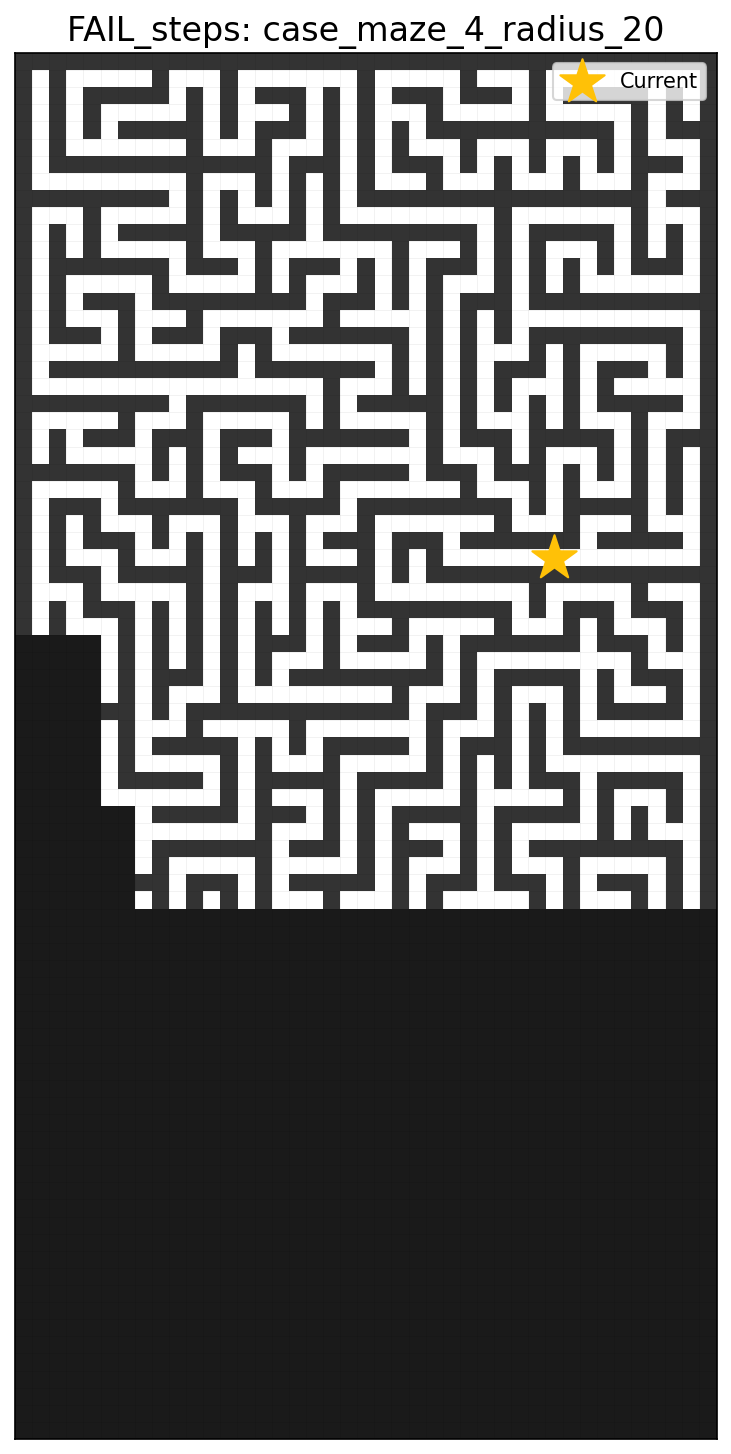
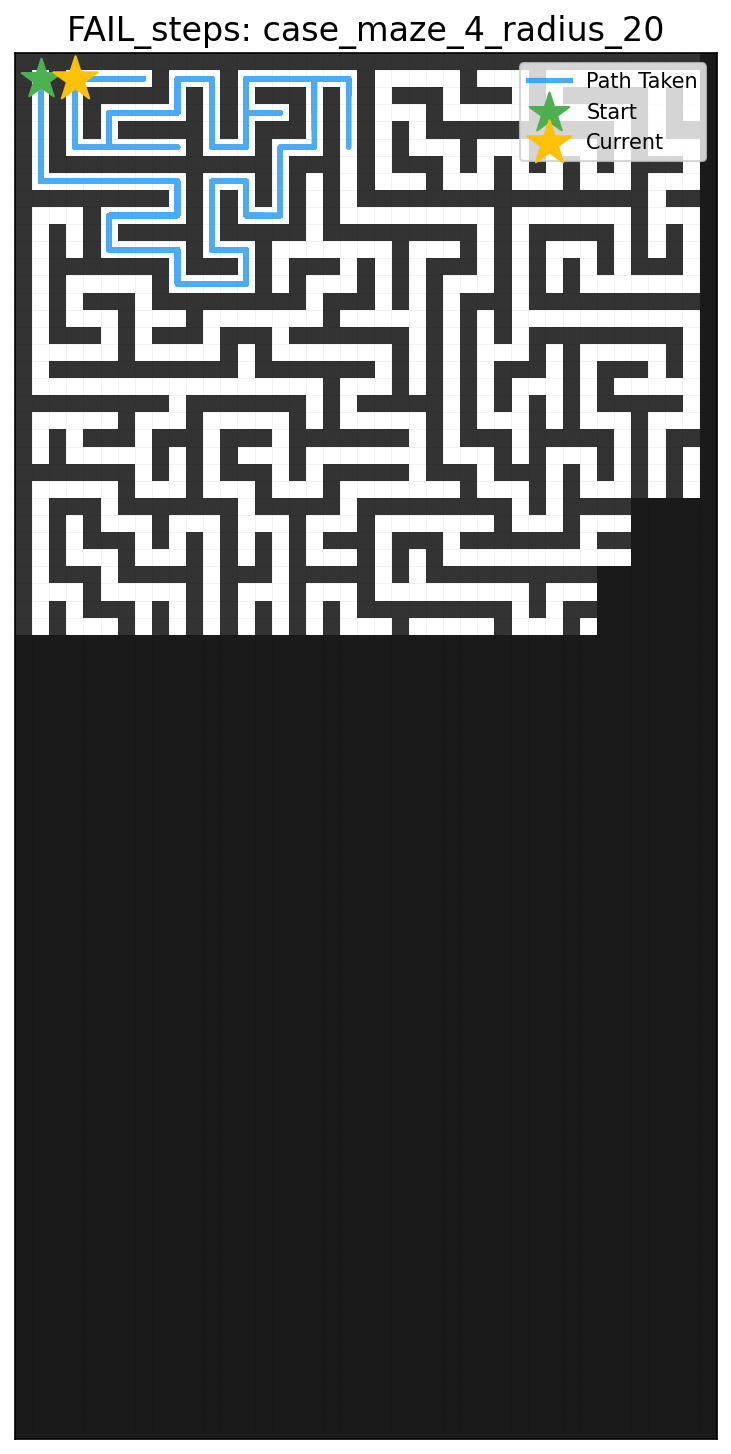
好像好一点的优化

Changed region(s): [[0.1204, 0.0309, 0.9932, 0.6499], [0.0301, 0.0309, 0.4815, 0.2166], [0.7223, 0.3714, 0.7825, 0.4023]]

diff --git a/candidate_planner.py b/candidate_planner.py
@@ -1,115 +1,99 @@
 import numpy as np
 import random
-import heapq
 from collections import deque
 
 class Planner:
     def __init__(self, map_shape: tuple[int, int], view_radius: int):
-        self.known_map = np.full(map_shape, -1, dtype=int)  # -1代表未知区域，0代表空地，1代表障碍物
+        self.known_map = np.full(map_shape, -1, dtype=int)  # -1:未知, 0:空地, 1:障碍
         self.view_radius = view_radius
         self.path_taken = []
         self.map_shape = map_shape
+        self.frontier = set()  # 维护边界点集合（空间换时间）
         
     def update_knowledge(self, current_pos: tuple[int, int], local_view: np.ndarray):
         r = self.view_radius
-        x, y = current_pos
-        h, w = self.known_map.shape
+        cx, cy = current_pos
+        h, w = self.map_shape
         
-        y_start, y_end = max(0, y - r), min(h, y + r + 1)
-        x_start, x_end = max(0, x - r), min(w, x + r + 1)
+        # 计算局部视图在全局地图中的边界
+        y_start, y_end = max(0, cy - r), min(h, cy + r + 1)
+        x_start, x_end = max(0, cx - r), min(w, cx + r + 1)
         
+        # 更新全局地图
         self.known_map[y_start:y_end, x_start:x_end] = local_view
+        
+        # 更新边界点：只更新受影响的区域（高效的关键）
+        updated_region = [
+            max(0, y_start-1), min(h, y_end+1),
+            max(0, x_start-1), min(w, x_end+1)
+        ]
+        
+        # 清除原有边界点（仅更新区域内的）
+        for point in list(self.frontier):
+            x, y = point
+            if updated_region[0] <= y < updated_region[1] and \
+               updated_region[2] <= x < updated_region[3]:
+                self.frontier.discard(point)
+        
+        # 添加新边界点（仅更新区域内）
+        for y in range(updated_region[0], updated_region[1]):
+            for x in range(updated_region[2], updated_region[3]):
+                if self.known_map[y, x] != 0:
+                    continue  # 只考虑自由区域
+                
+                # 检查四个方向是否有未知区域
+                for dx, dy in [(0, 1), (0, -1), (1, 0), (-1, 0)]:
+                    nx, ny = x + dx, y + dy
+                    if (0 <= ny < h and 0 <= nx < w and 
+                        self.known_map[ny, nx] == -1):
+                        self.frontier.add((x, y))
+                        break
 
-    def find_boundary_points(self, current_pos: tuple[int, int]):
-        """寻找边界点，即未知区域的边界"""
-        boundary_points = []
-        x, y = current_pos
-        for dx, dy in [(0, 1), (0, -1), (1, 0), (-1, 0)]:
-            nx, ny = x + dx, y + dy
-            if 0 <= ny < self.map_shape[0] and 0 <= nx < self.map_shape[1]:
-                if self.known_map[ny, nx] == -1:  # 发现未知区域
-                    boundary_points.append((nx, ny))
-        return boundary_points
-
-    def a_star(self, start: tuple[int, int], goal: tuple[int, int]):
-        """A*算法路径规划，比BFS更快找到最短路径"""
-        if start == goal:
-            return [start]
-            
-        # 初始化开放列表（优先队列）
-        open_set = []
-        heapq.heappush(open_set, (0, start))
-        
-        # 跟踪路径
-        came_from = {}
-        
-        # 起点到各点的实际代价
-        g_score = {start: 0}
-        
-        while open_set:
-            _, current = heapq.heappop(open_set)
-            
-            # 如果到达目标点，重建路径
-            if current == goal:
-                path = [current]
-                while current != start:
-                    current = came_from[current]
-                    path.append(current)
-                path.reverse()
-                return path
-            
-            cx, cy = current
-            # 探索四个方向
-            for dx, dy in [(0, 1), (0, -1), (1, 0), (-1, 0)]:
-                nx, ny = cx + dx, cy + dy
-                neighbor = (nx, ny)
-                
-                # 边界检查
-                if not (0 <= ny < self.map_shape[0] and 0 <= nx < self.map_shape[1]):
-                    continue
-                
-                # 跳过障碍物
-                if self.known_map[ny, nx] == 1:
-                    continue
-                
-                # 计算新的代价
-                new_g = g_score[current] + 1
-                
-                # 如果这是更好的路径，更新路径
-                if neighbor not in g_score or new_g < g_score[neighbor]:
-                    came_from[neighbor] = current
-                    g_score[neighbor] = new_g
-                    # 计算启发式代价（曼哈顿距离）
-                    h_score = abs(nx - goal[0]) + abs(ny - goal[1])
-                    f_score = new_g + h_score
-                    heapq.heappush(open_set, (f_score, neighbor))
-        
-        return None  # 没有找到路径
-
-    def plan_next_step(self, current_pos: tuple[int, int], all_possible_targets: list[tuple[int, int]]) -> tuple[int, int]:
+    def plan_next_step(self, current_pos: tuple[int, int], 
+                      all_possible_targets: list[tuple[int, int]]) -> tuple[int, int]:
+        # 记录路径
         if not self.path_taken or self.path_taken[-1] != current_pos:
             self.path_taken.append(current_pos)
         
-        # 将目标列表转换为集合提高查找效率
-        target_set = set(all_possible_targets)
-        
-        # 如果当前位置就是目标，返回当前位置（模拟器会处理到达目标）
-        if current_pos in target_set and self.known_map[current_pos[1], current_pos[0]] == 0:
-            return current_pos
-        
-        # 首先检查是否有已知目标点可以使用A*算法
+        # 高效目标点检查：使用集合加快查找
+        reachable_targets = set()
         for target in all_possible_targets:
             tx, ty = target
             if (0 <= ty < self.map_shape[0] and 
                 0 <= tx < self.map_shape[1] and
-                self.known_map[ty, tx] == 0):  # 确保目标点是已知空地
-                
-                # 使用A*算法规划到目标点的路径
-                path = self.a_star(current_pos, target)
-                if path and len(path) > 1:
-                    return path[1]  # 返回路径的第一步
+                self.known_map[ty, tx] == 0):
+                reachable_targets.add(target)
         
-        # 没有找到已知目标点，执行BFS进行探索
+        # 当前位置即目标
+        if current_pos in reachable_targets:
+            return current_pos
+        
+        # 优化1：直接检查邻近点是否为目标或边界点
+        cx, cy = current_pos
+        nearest_target = None
+        motions = [(0, 1), (0, -1), (1, 0), (-1, 0)]
+        random.shuffle(motions)
+        
+        for dx, dy in motions:
+            nx, ny = cx + dx, cy + dy
+            neighbor = (nx, ny)
+            
+            # 边界检查
+            if not (0 <= ny < self.map_shape[0] and 0 <= nx < self.map_shape[1]):
+                continue
+                
+            # 发现目标
+            if neighbor in reachable_targets:
+                return neighbor
+                
+            # 发现边界点（直接可达）
+            if self.known_map[ny, nx] == 0 and neighbor in self.frontier:
+                nearest_target = neighbor  # 记录但不立即返回，继续检查剩余方向
+        
+        if nearest_target:
+            return nearest_target
+        
+        # 优化2：多源BFS同时搜索目标和边界
         queue = deque([current_pos])
         visited = {current_pos}
         parent = {current_pos: None}
@@ -117,65 +101,67 @@ class Planner:
         found_target = None
         found_frontier = None
         
-        # BFS搜索最近的目标或边界
-        while queue and not found_target:  # 如果找到目标就提前退出
+        while queue:
             x, y = queue.popleft()
+            pos = (x, y)
             
-            # 检查是否找到目标
-            if (x, y) in target_set and self.known_map[y, x] == 0:
-                found_target = (x, y)
+            # 找到目标点
+            if not found_target and pos in reachable_targets:
+                found_target = pos
+            
+            # 找到边界点
+            if not found_frontier and pos in self.frontier:
+                found_frontier = pos
+            
+            # 已找到两种目标则退出（优先满足任务目标）
+            if found_target or found_frontier:
+                # 如果已经找到目标点，不需要继续寻找边界点
+                if found_target: 
+                    break
+                # 如果当前队列中有目标点则继续寻找
+                if any(p in reachable_targets for p in queue):
+                    continue
                 break
-            
-            # 检查是否是边界点（未知区域的边界）
-            if found_frontier is None:
-                boundary_points = self.find_boundary_points((x, y))
-                if boundary_points:
-                    found_frontier = (x, y)
-            
-            # 扩展邻居节点
+                
+            # 扩展邻居
             for dx, dy in [(0, 1), (0, -1), (1, 0), (-1, 0)]:
                 nx, ny = x + dx, y + dy
-                next_pos = (nx, ny)
+                neighbor = (nx, ny)
                 
-                # 检查边界和可通行性
-                if (0 <= ny < self.map_shape[0] and 
-                    0 <= nx < self.map_shape[1] and
-                    self.known_map[ny, nx] == 0 and 
-                    next_pos not in visited):
+                # 边界检查
+                if not (0 <= ny < self.map_shape[0] and 0 <= nx < self.map_shape[1]):
+                    continue
+                
+                # 访问检查：未访问且可通行
+                if (self.known_map[ny, nx] == 0 and 
+                    neighbor not in visited):
                     
-                    visited.add(next_pos)
-                    queue.append(next_pos)
-                    parent[next_pos] = (x, y)
+                    visited.add(neighbor)
+                    queue.append(neighbor)
+                    parent[neighbor] = pos
         
-        # 回溯路径找到第一步移动的函数
+        # 回溯路径找到第一步移动
         def find_first_step(target):
             step = target
-            while parent[step] != current_pos:
+            while parent.get(step, current_pos) != current_pos:
                 step = parent[step]
             return step
         
-        # 优先处理找到的目标（使用A*算法加速）
+        # 优先返回目标点路径
         if found_target:
-            path = self.a_star(current_pos, found_target)
-            if path and len(path) > 1:
-                return path[1]  # 使用A*返回下一步
-            else:
-                return find_first_step(found_target)  # 如果A*失败则回退到BFS方法
-        
-        # 其次处理边界点
+            return find_first_step(found_target)
+            
+        # 其次返回边界点路径
         if found_frontier:
             return find_first_step(found_frontier)
         
-        # 最后尝试随机合法移动
-        motions = [(0, 1), (0, -1), (1, 0), (-1, 0)]
-        random.shuffle(motions)
+        # 最终回退：随机选择有效移动方向
         for dx, dy in motions:
-            next_pos = (current_pos[0] + dx, current_pos[1] + dy)
-            nx, ny = next_pos
+            nx, ny = cx + dx, cy + dy
             if (0 <= ny < self.map_shape[0] and 
                 0 <= nx < self.map_shape[1] and
-                self.known_map[ny, nx] != 1):  # 避免已知障碍
-                return next_pos
+                self.known_map[ny, nx] != 1):  # 避免障碍物
+                return (nx, ny)
         
         # 无合法移动时保持原位
         return current_pos
